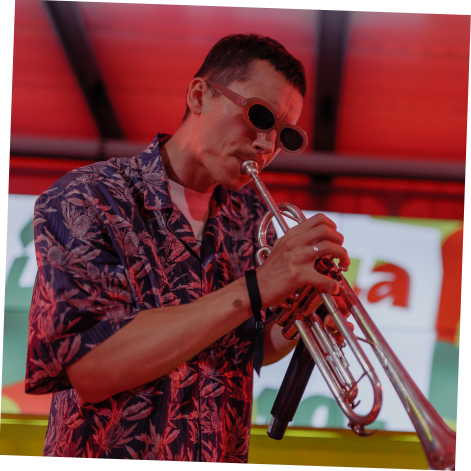
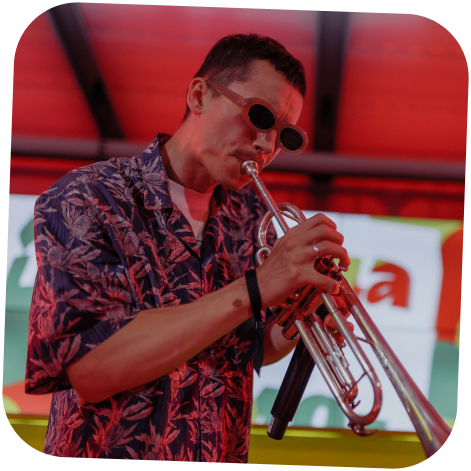
added fixes for ExclusiveAccess

diff --git a/src/components/ExclusiveAccess/ExclusiveAccess.module.css b/src/components/ExclusiveAccess/ExclusiveAccess.module.css
@@ -37,7 +37,7 @@
 	width: 345px;
 	height: 280px;
 	right: -150px;
-	top: -35px;
+	top: -40px;
 	background: url('../../../public/img/ExclusiveAccess-1-before.png') no-repeat;
 }
 
@@ -52,12 +52,11 @@
 .imageWrapperSunGirl::before {
 	width: 390px;
 	height: 345px;
-	right: -150px;
-	bottom: -180px;
+	right: -155px;
+	bottom: -178px;
 	background: url('../../../public/img/ExclusiveAccess-3-before.png') no-repeat;
 }
 
 .imageWrapper img {
 	max-width: 456px;
-	border-radius: 25%;
 }
